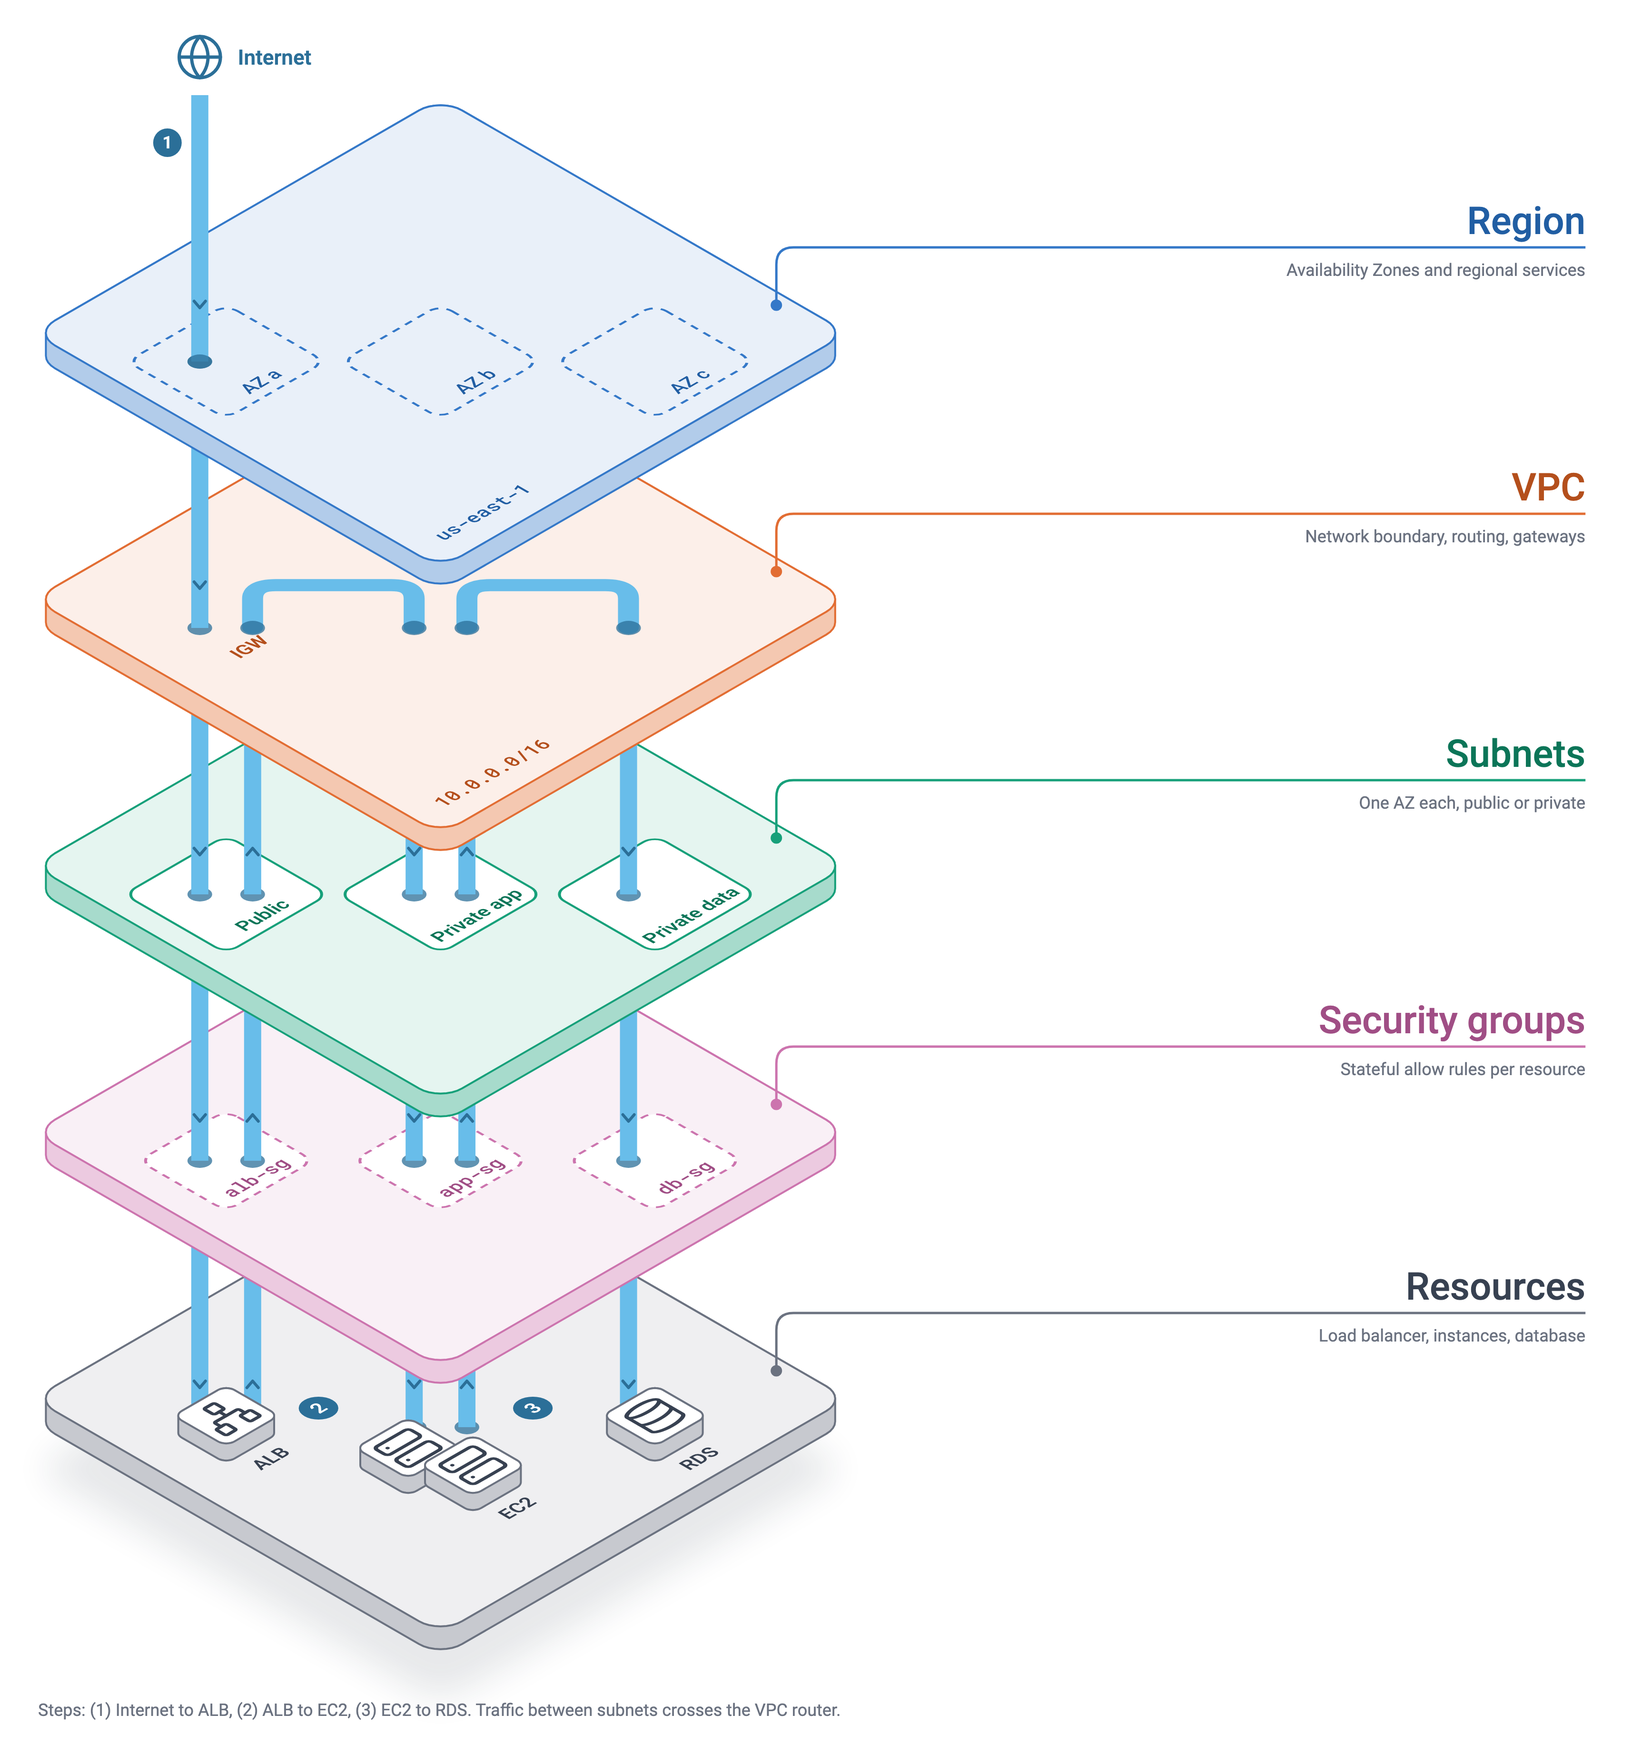
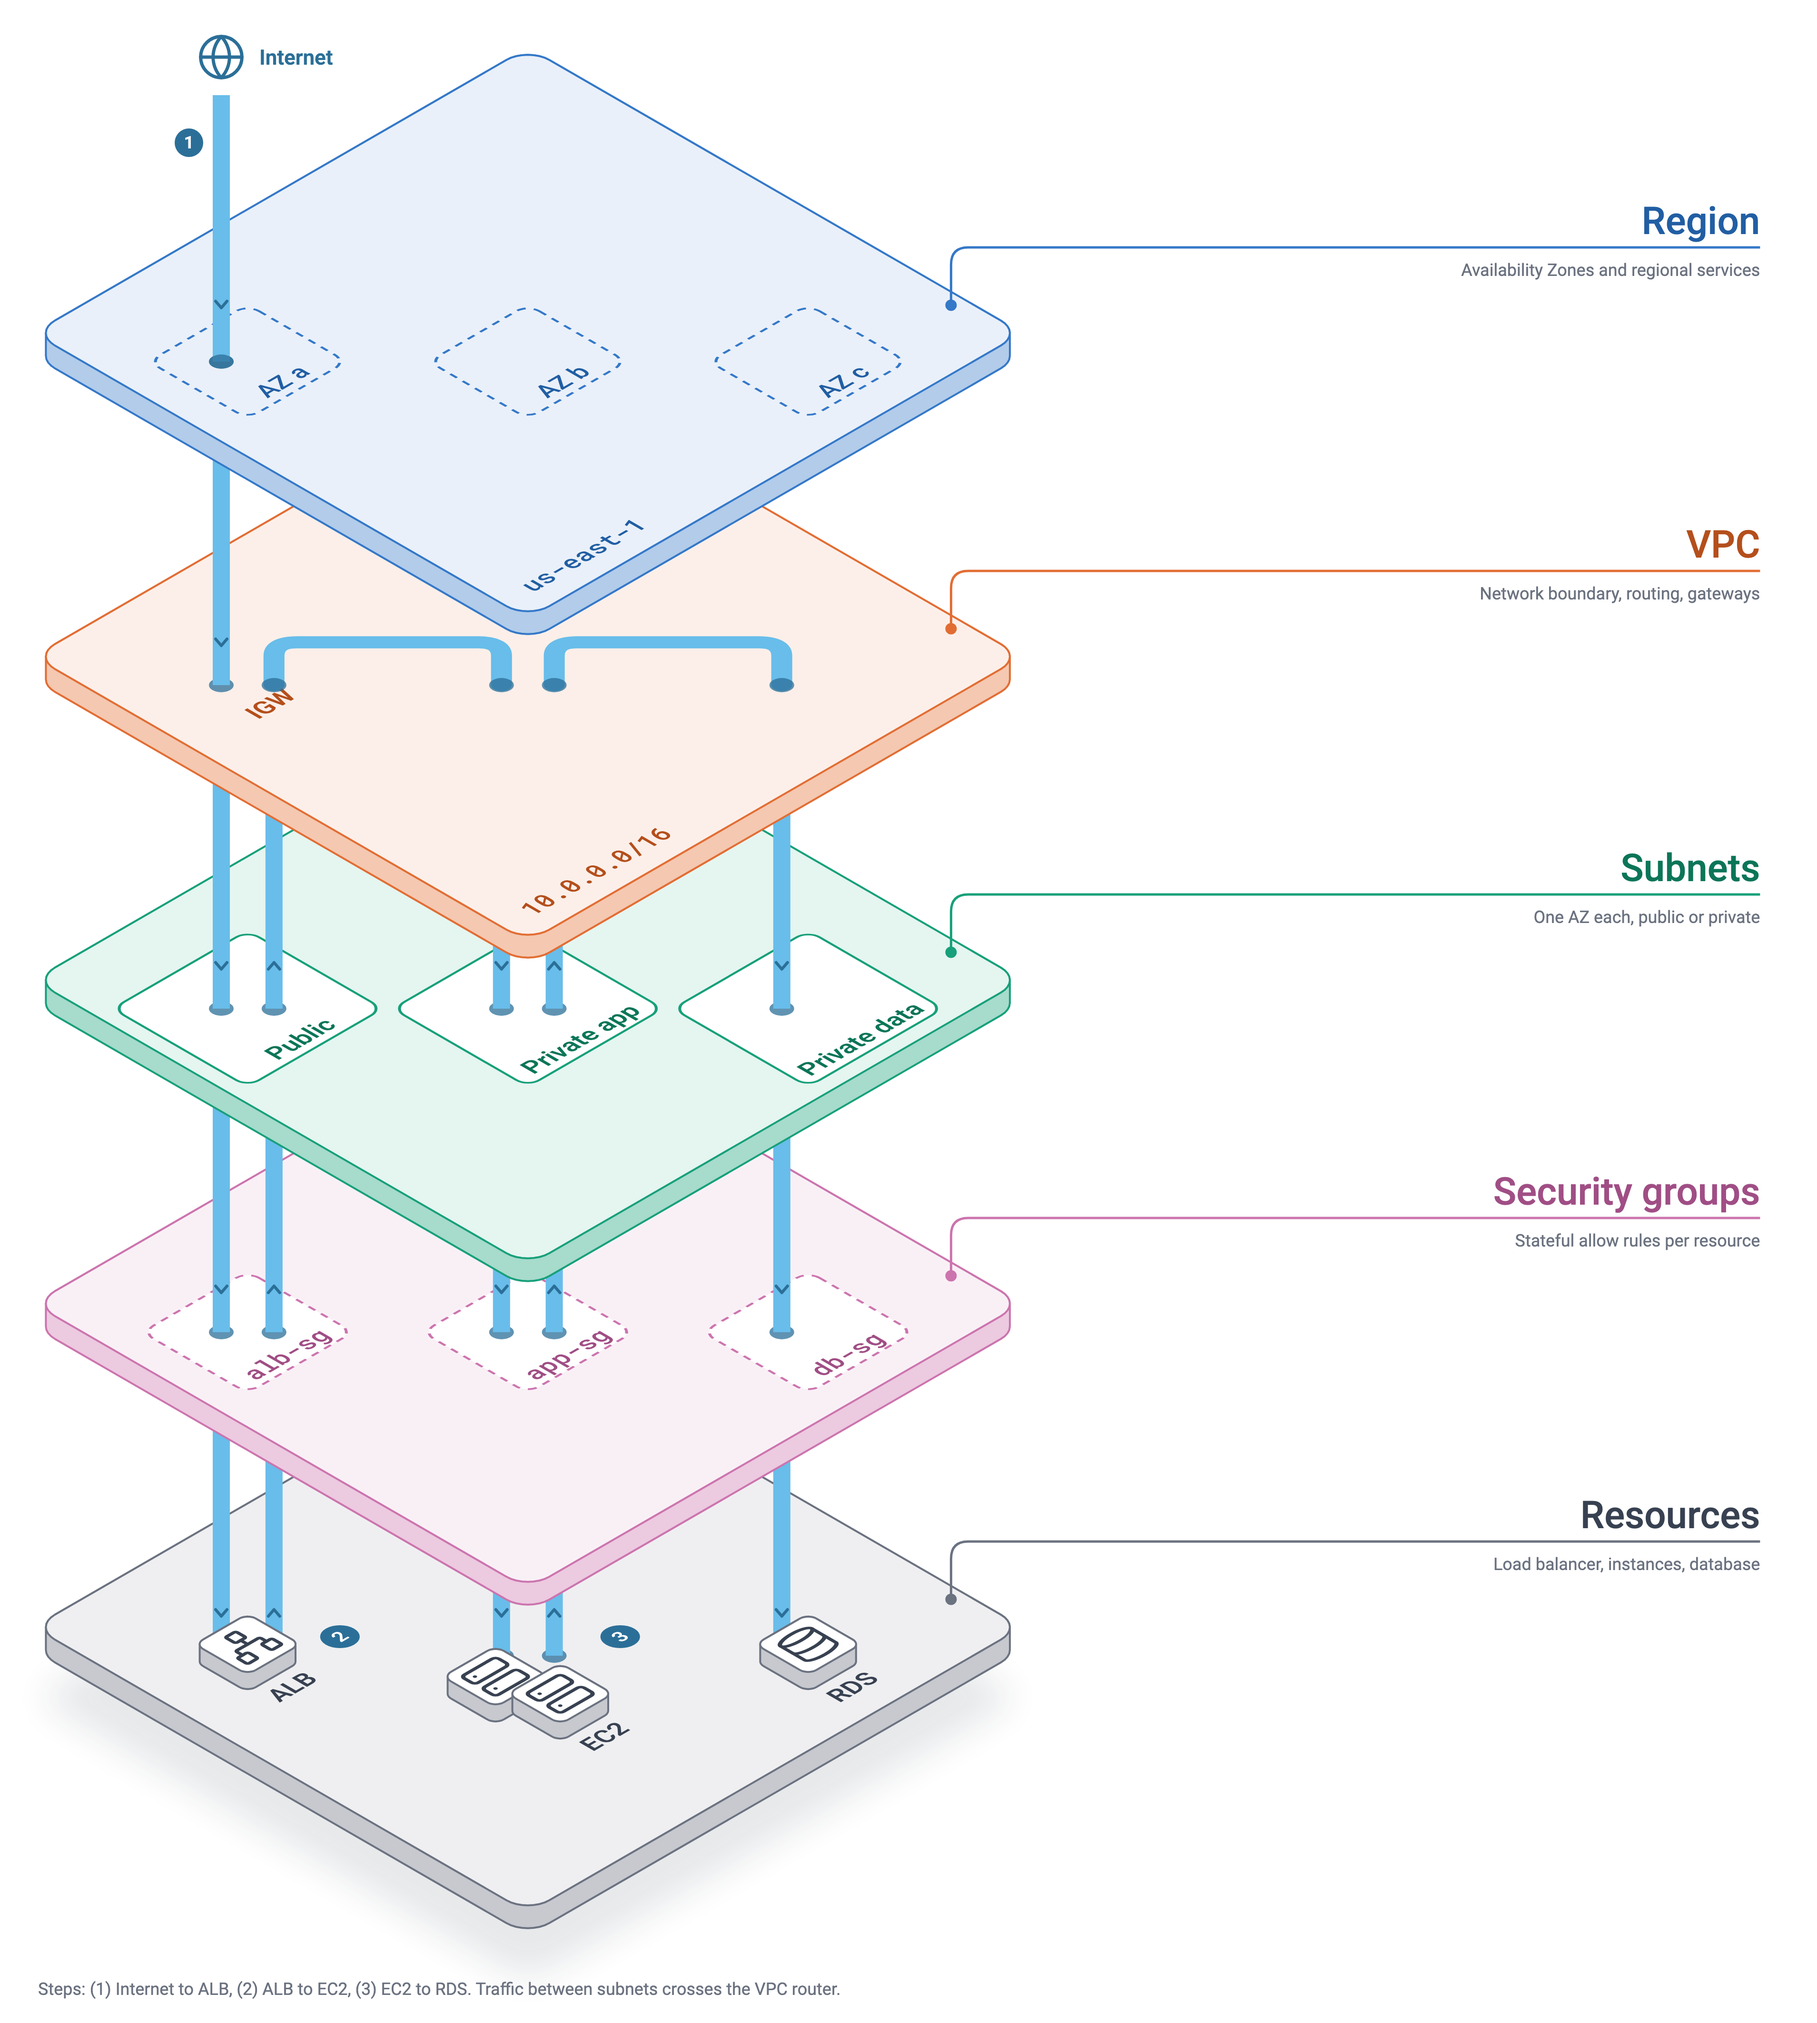
Enlarge iso-stack surface labels to 26px
Zone, marker, note, and resource labels on iso-stack plates were fixed
at 20px, which read small next to iso-tree slab labels. They now share
one LABEL size of 26px, matching iso-tree's mid-tier slabs. Column
spacing grows from 130 to 170 so the widest zone labels still fit.

diff --git a/iso-diagram/src/iso_diagram/stack.py b/iso-diagram/src/iso_diagram/stack.py
@@ -32,11 +32,12 @@ from iso_diagram.theme import Theme, Tier
 GAP = 260  # screen distance between plate centers
 MAX_GAP = 600
 H = 24  # plate thickness
-SPACING = 130  # plane distance between column centers, along each axis
+SPACING = 170  # plane distance between column centers, along each axis
 INSET = 18
 LANE = 16  # plane offset of the A and B lanes from a column's center
 ZONE_MIN, ZONE_MAX = 100, SPACING - 6
 RES_SIZE, RES_H = 64, 18
+LABEL = 26  # surface label size, in line with iso-tree slab labels
 RES_OFFSETS = {1: [(0, 6)], 2: [(-34, 40), (34, 58)], 3: [(-50, 30), (0, 52), (50, 74)]}
 
 # Column name to its plane center, shared by every plate.
@@ -111,7 +112,7 @@ class Plan:
         """Return text lying flat on a plate at plane point at, upright to the reader."""
         style = TextStyle(
             font=self.theme.mono if mono else self.theme.sans,
-            size=20,
+            size=LABEL,
             fill=fill,
             weight=weight,
             anchor="middle",
@@ -208,7 +209,7 @@ def zone_widths(layers: list[Spec], theme: Theme) -> ZoneWidths:
         zones = layer.get("zones", [])
         for z in zones:
             length = theme.measure(
-                s=z["label"], size=20, mono=z.get("mono", False), weight=500
+                s=z["label"], size=LABEL, mono=z.get("mono", False), weight=500
             )
             zone_w[i, z["column"]] = z.get("size") or max(
                 ZONE_MIN, min(ZONE_MAX, round(length + 34))
@@ -248,7 +249,8 @@ def plate_width(
                 reach = max(reach, abs(px) + RES_SIZE / 2, abs(py) + RES_SIZE / 2)
             lx, ly = res_label_pos(col, r.get("count", 1))
             half = (
-                theme.measure(s=r["label"], size=20, mono=r.get("mono"), weight=600) / 2
+                theme.measure(s=r["label"], size=LABEL, mono=r.get("mono"), weight=600)
+                / 2
             )
             reach = max(reach, abs(lx) + 9, abs(ly) + half)
     return 2 * (reach + INSET)
@@ -439,21 +441,21 @@ def plate_content(plan: Plan, i: int) -> str:
             )
         )
         length = plan.theme.measure(
-            s=m["label"], size=20, mono=m.get("mono"), weight=600
+            s=m["label"], size=LABEL, mono=m.get("mono"), weight=600
         )
         reg.label(
             Label(
                 surface=plate,
                 text=m["label"],
                 center=(x + 34, y + 6),
-                size=20,
+                size=LABEL,
                 length=length,
             )
         )
     if layer.get("note"):
         note = layer["note"]
         length = plan.theme.measure(
-            s=note["text"], size=20, mono=note.get("mono"), weight=500
+            s=note["text"], size=LABEL, mono=note.get("mono"), weight=500
         )
         # Along the front-right edge, near the front corner.
         nx, ny = plan.plate_w / 2 - 34, plan.plate_w / 2 - 30 - length / 2
@@ -470,7 +472,7 @@ def plate_content(plan: Plan, i: int) -> str:
                 surface=plate,
                 text=note["text"],
                 center=(nx, ny),
-                size=20,
+                size=LABEL,
                 length=length,
             )
         )
@@ -508,9 +510,9 @@ def zones(plan: Plan, i: int) -> list[str]:
                 surface=Surface(name=f"{layer['id']}/{z['label']}", w=w, d=w),
                 text=z["label"],
                 center=(w / 2 - 18, 0),
-                size=20,
+                size=LABEL,
                 length=plan.theme.measure(
-                    s=z["label"], size=20, mono=mono, weight=weight
+                    s=z["label"], size=LABEL, mono=mono, weight=weight
                 ),
             )
         )
@@ -578,9 +580,9 @@ def resources(plan: Plan, i: int) -> str:
                 surface=plate,
                 text=r["label"],
                 center=(lx, ly),
-                size=20,
+                size=LABEL,
                 length=plan.theme.measure(
-                    s=r["label"], size=20, mono=r.get("mono"), weight=600
+                    s=r["label"], size=LABEL, mono=r.get("mono"), weight=600
                 ),
             )
         )

diff --git a/tests/test_build.py b/tests/test_build.py
@@ -195,8 +195,8 @@ def test_mono_labels_are_measured_in_the_mono_font() -> None:
     _, reg, _ = stack.build(spec, theme)
     lengths = {lb.text: lb.length for lb in reg.labels}
     for label in (marker["label"], resource["label"]):
-        mono = theme.measure(s=label, size=20, mono=True, weight=600)
-        assert mono != theme.measure(s=label, size=20, mono=False, weight=600)
+        mono = theme.measure(s=label, size=stack.LABEL, mono=True, weight=600)
+        assert mono != theme.measure(s=label, size=stack.LABEL, mono=False, weight=600)
         assert lengths[label] == mono
 
 

diff --git a/iso-diagram/references/iso-stack.md b/iso-diagram/references/iso-stack.md
@@ -13,7 +13,7 @@ platform-layer diagrams such as "Schedules > Webhooks > UIs > Flows > Scripts > 
 
 ## Layout the script does
 
-- **Columns** sit on a diagonal across each plate, 130 apart, so each plate shows them as a
+- **Columns** sit on a diagonal across each plate, 170 apart, so each plate shows them as a
   row from left to right. The plate grows to keep every zone 18 units in from its edge.
 - **Plates** are at least 260 apart, and the script spreads them further until no port, hop,
   badge, label, or resource is under the plate above. The back of each plate may still be
